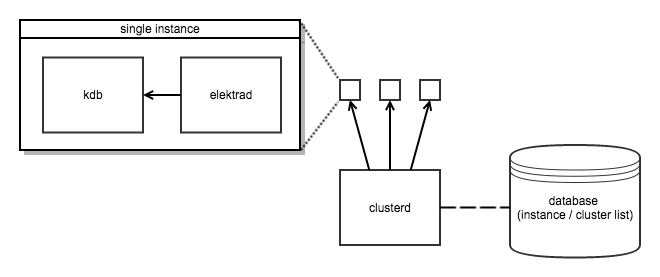
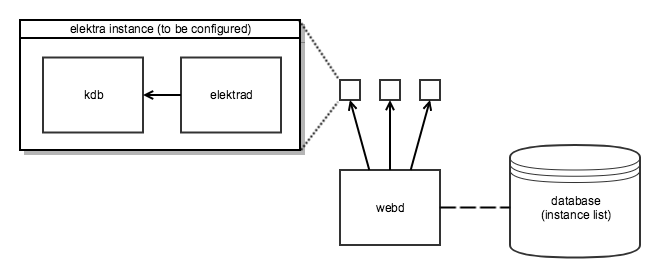
web-ui: update README.md's and diagrams

diff --git a/src/tools/web/README.md b/src/tools/web/README.md
@@ -2,6 +2,10 @@
 
 _an API and web user interface to remotely manage Elektra instances_
 
+The configuration view of elektra-web is similar to the tree view of the
+[qt-gui](https://git.libelektra.org/tree/master/src/tools/qt-gui), but with
+dynamic fields rendered via key metadata.
+
 
 ## Dependencies
 
@@ -101,25 +105,14 @@ Elektra web consists of multiple components:
 ![https://cdn.rawgit.com/ElektraInitiative/libelektra/master/src/tools/web/doc/network_structure.png](https://cdn.rawgit.com/ElektraInitiative/libelektra/master/src/tools/web/doc/network_structure.png)
 
 
-## GUI
-
-The Web UI allows the user to add multiple instances to be configured.
-
-The configuration view of elektra web is similar to the tree view of the
-[qt-gui](https://git.libelektra.org/tree/master/src/tools/qt-gui), but with
-dynamic fields rendered via key metadata.
-
-![https://cdn.rawgit.com/ElektraInitiative/libelektra/master/src/tools/web/doc/ui_structure.png](https://cdn.rawgit.com/ElektraInitiative/libelektra/master/src/tools/web/doc/ui_structure.png)
-
-
 ## API
 
 ![https://cdn.rawgit.com/ElektraInitiative/libelektra/master/src/tools/web/doc/daemon_structure.png](https://cdn.rawgit.com/ElektraInitiative/libelektra/master/src/tools/web/doc/daemon_structure.png)
 
 [API blueprints](https://apiblueprint.org/) are available for both APIs:
 
- * [elektrad](https://master.libelektra.org/doc/api_blueprints/elektrad.apib), documentation: http://docs.elektrad.apiary.io/
- * [webd](https://master.libelektra.org/doc/api_blueprints/webd.apib), documentation: http://docs.elektrawebd.apiary.io/
+ * [elektrad](https://master.libelektra.org/doc/api_blueprints/elektrad.apib), documentation: https://elektrad.docs.apiary.io/
+ * [webd](https://master.libelektra.org/doc/api_blueprints/webd.apib), documentation: https://elektrawebd.docs.apiary.io/
 
 
 ## Auth

diff --git a/src/tools/web/webd/README.md b/src/tools/web/webd/README.md
@@ -2,8 +2,7 @@
 
 The instance management server for elektra-web, built using
 [express](https://expressjs.com/). It accesses the API of multiple
-[`elektrad`](../elektrad/) instances and provides an API to manage single
-instances.
+[`elektrad`](../elektrad/) instances and provides an API to manage instances.
 
 
 ## Installation
@@ -42,5 +41,5 @@ mode, start the client via `npm run start:dev`, it will also start `webd`.
 
 ## API
 
- - API documentation: http://docs.webd.apiary.io/
+ - API documentation: https://elektrawebd.docs.apiary.io/
  - API blueprint: [webd.apib](https://master.libelektra.org/doc/api_blueprints/webd.apib)

diff --git a/src/tools/web/elektrad/README.md b/src/tools/web/elektrad/README.md
@@ -33,5 +33,5 @@ npm run start:dev
 
 By default, `elektrad` runs on [http://localhost:33333](http://localhost:33333)
 
- - API documentation: http://docs.elektrad.apiary.io/
+ - API documentation: https://elektrad.docs.apiary.io/
  - API blueprint: [elektrad.apib](https://master.libelektra.org/doc/api_blueprints/elektrad.apib)
